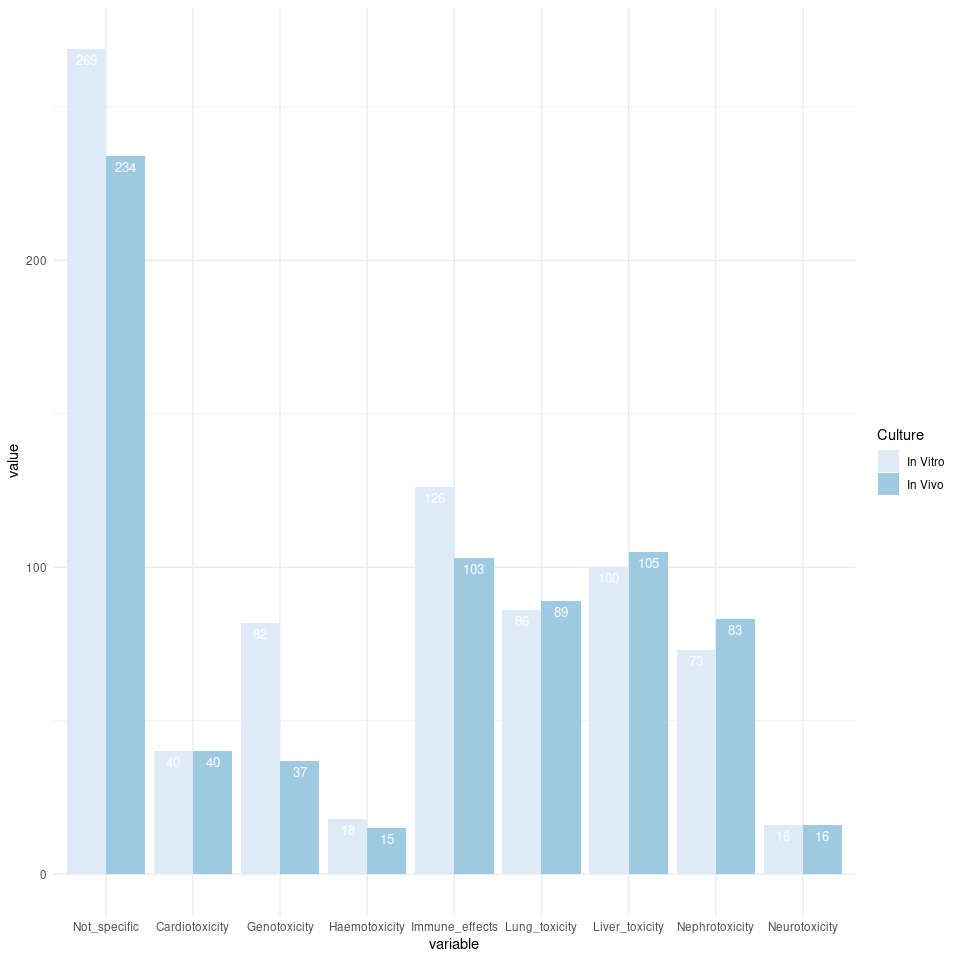
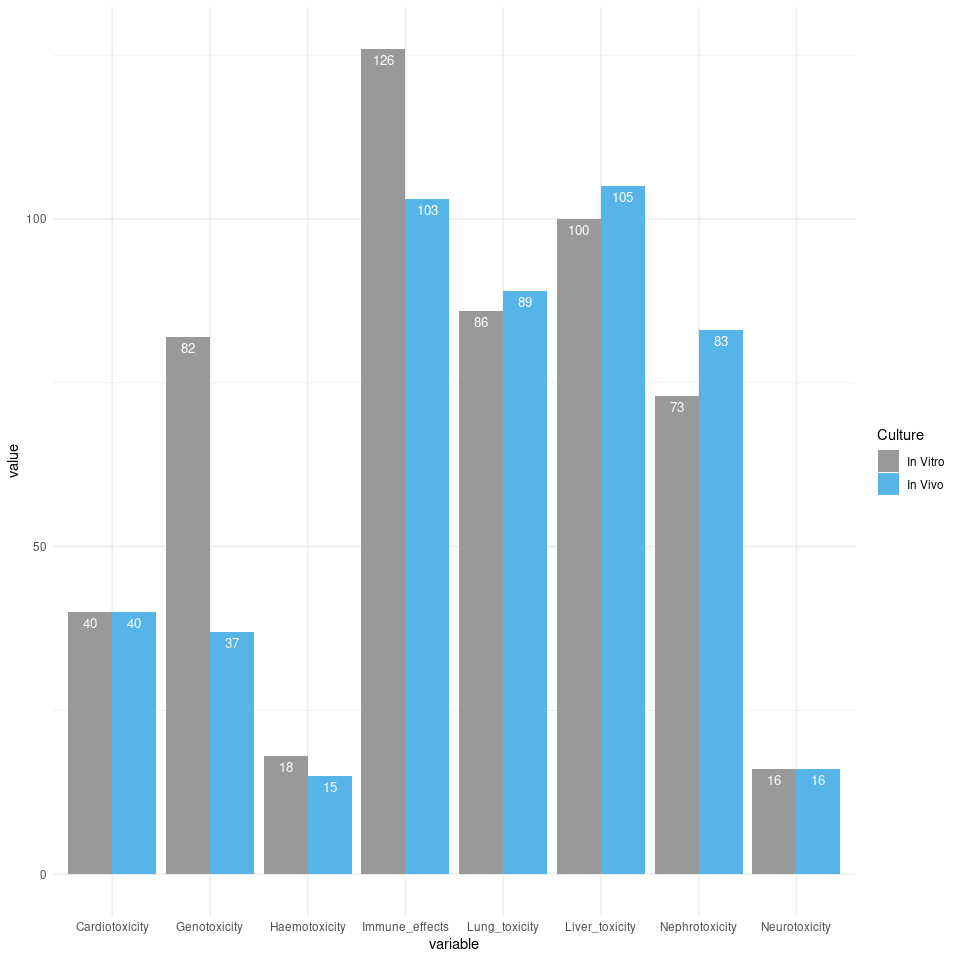
Comit before teleworking

diff --git a/Result_mining.md b/Result_mining.md
@@ -3,19 +3,6 @@ Results\_mining
 Etienne Rolland
 11/02/2020
 
-  - [Ranking of the material and method
-    section](#ranking-of-the-material-and-method-section)
-  - [Mining of the results](#mining-of-the-results)
-      - [Ontologies and functions](#ontologies-and-functions)
-      - [Graph point 1](#graph-point-1)
-      - [Graph point 2](#graph-point-2)
-      - [Graph point 3](#graph-point-3)
-      - [Graph point 4](#graph-point-4)
-      - [Rules approach for immune
-        effects](#rules-approach-for-immune-effects)
-      - [Graph for Susanne’s
-        presentation](#graph-for-susannes-presentation)
-
 # Ranking of the material and method section
 
 ``` r
@@ -776,11 +763,12 @@ results_df_vitro$Culture<-"In Vitro"
 result_vivo_vs_vitro<-(rbind(results_df_vivo, results_df_vitro))
 
 result_vivo_vs_vitro<-melt(result_vivo_vs_vitro, id="Culture")
-
+result_vivo_vs_vitro<-result_vivo_vs_vitro[-c(1,2),]
 p <- ggplot(data=result_vivo_vs_vitro, aes(x=variable, y=value, fill=Culture)) +
   geom_bar(stat="identity", position=position_dodge()) + 
   geom_text(aes(label=value), vjust=1.6, color="white", position = position_dodge(0.9), size=3.5)+
-  scale_fill_brewer(palette="Blues") +
+  #scale_fill_brewer(palette="Blues") +
+  scale_fill_manual(values=c("#999999", "#56B4E9")) +
   theme_minimal()
 
 p
@@ -1309,44 +1297,38 @@ rules_mining(data, new_ontologies)
     ## [15] {dendrimer,                                                                  
     ##       titanium dioxide NP} => {accumulation} 0.002415459       1.00 2.202128     1
     ## [1] "\n\n\n"
-    ##      lhs                rhs            support confidence     lift count
-    ## [1]  {gold NP,                                                          
-    ##       peptide NP}    => {necrosis} 0.002415459          1 4.758621     1
-    ## [2]  {cerium NP,                                                        
-    ##       lipid_based}   => {necrosis} 0.002415459          1 4.758621     1
-    ## [3]  {fullerene,                                                        
-    ##       gold NP}       => {necrosis} 0.002415459          1 4.758621     1
-    ## [4]  {iron oxide NP,                                                    
-    ##       quantum dot}   => {necrosis} 0.002415459          1 4.758621     1
-    ## [5]  {carbon NP,                                                        
-    ##       quantum dot}   => {necrosis} 0.002415459          1 4.758621     1
-    ## [6]  {gold NP,                                                          
-    ##       manganese NP}  => {necrosis} 0.002415459          1 4.758621     1
-    ## [7]  {carbon NP,                                                        
-    ##       manganese NP}  => {necrosis} 0.002415459          1 4.758621     1
-    ## [8]  {copper NP,                                                        
-    ##       silver NP}     => {necrosis} 0.002415459          1 4.758621     1
-    ## [9]  {fullerene,                                                        
-    ##       gold NP,                                                          
-    ##       lipid_based}   => {necrosis} 0.002415459          1 4.758621     1
-    ## [10] {carbon NP,                                                        
-    ##       fullerene,                                                        
-    ##       gold NP}       => {necrosis} 0.002415459          1 4.758621     1
-    ## [11] {iron oxide NP,                                                    
-    ##       manganese NP,                                                     
-    ##       quantum dot}   => {necrosis} 0.002415459          1 4.758621     1
-    ## [12] {manganese NP,                                                     
-    ##       quantum dot,                                                      
-    ##       zinc oxide NP} => {necrosis} 0.002415459          1 4.758621     1
-    ## [13] {gold NP,                                                          
-    ##       manganese NP,                                                     
-    ##       quantum dot}   => {necrosis} 0.002415459          1 4.758621     1
-    ## [14] {carbon NP,                                                        
-    ##       manganese NP,                                                     
-    ##       quantum dot}   => {necrosis} 0.002415459          1 4.758621     1
-    ## [15] {manganese NP,                                                     
-    ##       quantum dot,                                                      
-    ##       silver NP}     => {necrosis} 0.002415459          1 4.758621     1
+    ##      lhs                                         rhs        support    
+    ## [1]  {gold NP,peptide NP}                     => {necrosis} 0.002415459
+    ## [2]  {cerium NP,lipid_based}                  => {necrosis} 0.002415459
+    ## [3]  {fullerene,gold NP}                      => {necrosis} 0.002415459
+    ## [4]  {iron oxide NP,quantum dot}              => {necrosis} 0.002415459
+    ## [5]  {carbon NP,quantum dot}                  => {necrosis} 0.002415459
+    ## [6]  {gold NP,manganese NP}                   => {necrosis} 0.002415459
+    ## [7]  {carbon NP,manganese NP}                 => {necrosis} 0.002415459
+    ## [8]  {copper NP,silver NP}                    => {necrosis} 0.002415459
+    ## [9]  {fullerene,gold NP,lipid_based}          => {necrosis} 0.002415459
+    ## [10] {carbon NP,fullerene,gold NP}            => {necrosis} 0.002415459
+    ## [11] {iron oxide NP,manganese NP,quantum dot} => {necrosis} 0.002415459
+    ## [12] {manganese NP,quantum dot,zinc oxide NP} => {necrosis} 0.002415459
+    ## [13] {gold NP,manganese NP,quantum dot}       => {necrosis} 0.002415459
+    ## [14] {carbon NP,manganese NP,quantum dot}     => {necrosis} 0.002415459
+    ## [15] {manganese NP,quantum dot,silver NP}     => {necrosis} 0.002415459
+    ##      confidence lift     count
+    ## [1]  1          4.758621 1    
+    ## [2]  1          4.758621 1    
+    ## [3]  1          4.758621 1    
+    ## [4]  1          4.758621 1    
+    ## [5]  1          4.758621 1    
+    ## [6]  1          4.758621 1    
+    ## [7]  1          4.758621 1    
+    ## [8]  1          4.758621 1    
+    ## [9]  1          4.758621 1    
+    ## [10] 1          4.758621 1    
+    ## [11] 1          4.758621 1    
+    ## [12] 1          4.758621 1    
+    ## [13] 1          4.758621 1    
+    ## [14] 1          4.758621 1    
+    ## [15] 1          4.758621 1
 
 ``` r
 data<-result_df2
@@ -1420,43 +1402,38 @@ rules_mining(data, new_ontologies)
     ## checking subsets of size 1 2 3 4 5 done [0.00s].
     ## writing ... [23 rule(s)] done [0.00s].
     ## creating S4 object  ... done [0.00s].
-    ##      lhs                rhs                support confidence     lift count
-    ## [1]  {lipid_based,                                                          
-    ##       polymer_based} => {accumulation} 0.009661836          1 2.202128     4
-    ## [2]  {metal_based,                                                          
-    ##       peptide NP}    => {necrosis}     0.002415459          1 4.758621     1
-    ## [3]  {metal_based,                                                          
-    ##       peptide NP}    => {inflammation} 0.002415459          1 3.136364     1
-    ## [4]  {metal_based,                                                          
-    ##       peptide NP}    => {accumulation} 0.002415459          1 2.202128     1
-    ## [5]  {carbon NP,                                                            
-    ##       quantum dot}   => {apoptosis}    0.002415459          1 4.600000     1
-    ## [6]  {carbon NP,                                                            
-    ##       quantum dot}   => {necrosis}     0.002415459          1 4.758621     1
-    ## [7]  {carbon NP,                                                            
-    ##       quantum dot}   => {inflammation} 0.002415459          1 3.136364     1
-    ## [8]  {fullerene,                                                            
-    ##       metal_based}   => {necrosis}     0.002415459          1 4.758621     1
-    ## [9]  {fullerene,                                                            
-    ##       metal_based}   => {inflammation} 0.002415459          1 3.136364     1
-    ## [10] {carbon NP,                                                            
-    ##       dendrimer,                                                            
-    ##       metal_based}   => {accumulation} 0.002415459          1 2.202128     1
-    ## [11] {carbon NP,                                                            
-    ##       metal_based,                                                          
-    ##       quantum dot}   => {apoptosis}    0.002415459          1 4.600000     1
-    ## [12] {carbon NP,                                                            
-    ##       metal_based,                                                          
-    ##       quantum dot}   => {necrosis}     0.002415459          1 4.758621     1
-    ## [13] {carbon NP,                                                            
-    ##       metal_based,                                                          
-    ##       quantum dot}   => {inflammation} 0.002415459          1 3.136364     1
-    ## [14] {fullerene,                                                            
-    ##       lipid_based,                                                          
-    ##       metal_based}   => {necrosis}     0.002415459          1 4.758621     1
-    ## [15] {fullerene,                                                            
-    ##       lipid_based,                                                          
-    ##       metal_based}   => {inflammation} 0.002415459          1 3.136364     1
+    ##      lhs                                    rhs            support    
+    ## [1]  {lipid_based,polymer_based}         => {accumulation} 0.009661836
+    ## [2]  {metal_based,peptide NP}            => {necrosis}     0.002415459
+    ## [3]  {metal_based,peptide NP}            => {inflammation} 0.002415459
+    ## [4]  {metal_based,peptide NP}            => {accumulation} 0.002415459
+    ## [5]  {carbon NP,quantum dot}             => {apoptosis}    0.002415459
+    ## [6]  {carbon NP,quantum dot}             => {necrosis}     0.002415459
+    ## [7]  {carbon NP,quantum dot}             => {inflammation} 0.002415459
+    ## [8]  {fullerene,metal_based}             => {necrosis}     0.002415459
+    ## [9]  {fullerene,metal_based}             => {inflammation} 0.002415459
+    ## [10] {carbon NP,dendrimer,metal_based}   => {accumulation} 0.002415459
+    ## [11] {carbon NP,metal_based,quantum dot} => {apoptosis}    0.002415459
+    ## [12] {carbon NP,metal_based,quantum dot} => {necrosis}     0.002415459
+    ## [13] {carbon NP,metal_based,quantum dot} => {inflammation} 0.002415459
+    ## [14] {fullerene,lipid_based,metal_based} => {necrosis}     0.002415459
+    ## [15] {fullerene,lipid_based,metal_based} => {inflammation} 0.002415459
+    ##      confidence lift     count
+    ## [1]  1          2.202128 4    
+    ## [2]  1          4.758621 1    
+    ## [3]  1          3.136364 1    
+    ## [4]  1          2.202128 1    
+    ## [5]  1          4.600000 1    
+    ## [6]  1          4.758621 1    
+    ## [7]  1          3.136364 1    
+    ## [8]  1          4.758621 1    
+    ## [9]  1          3.136364 1    
+    ## [10] 1          2.202128 1    
+    ## [11] 1          4.600000 1    
+    ## [12] 1          4.758621 1    
+    ## [13] 1          3.136364 1    
+    ## [14] 1          4.758621 1    
+    ## [15] 1          3.136364 1    
     ## [1] "\n\n\n"
     ##      lhs              rhs                support confidence     lift count
     ## [1]  {metal_based,                                                        
